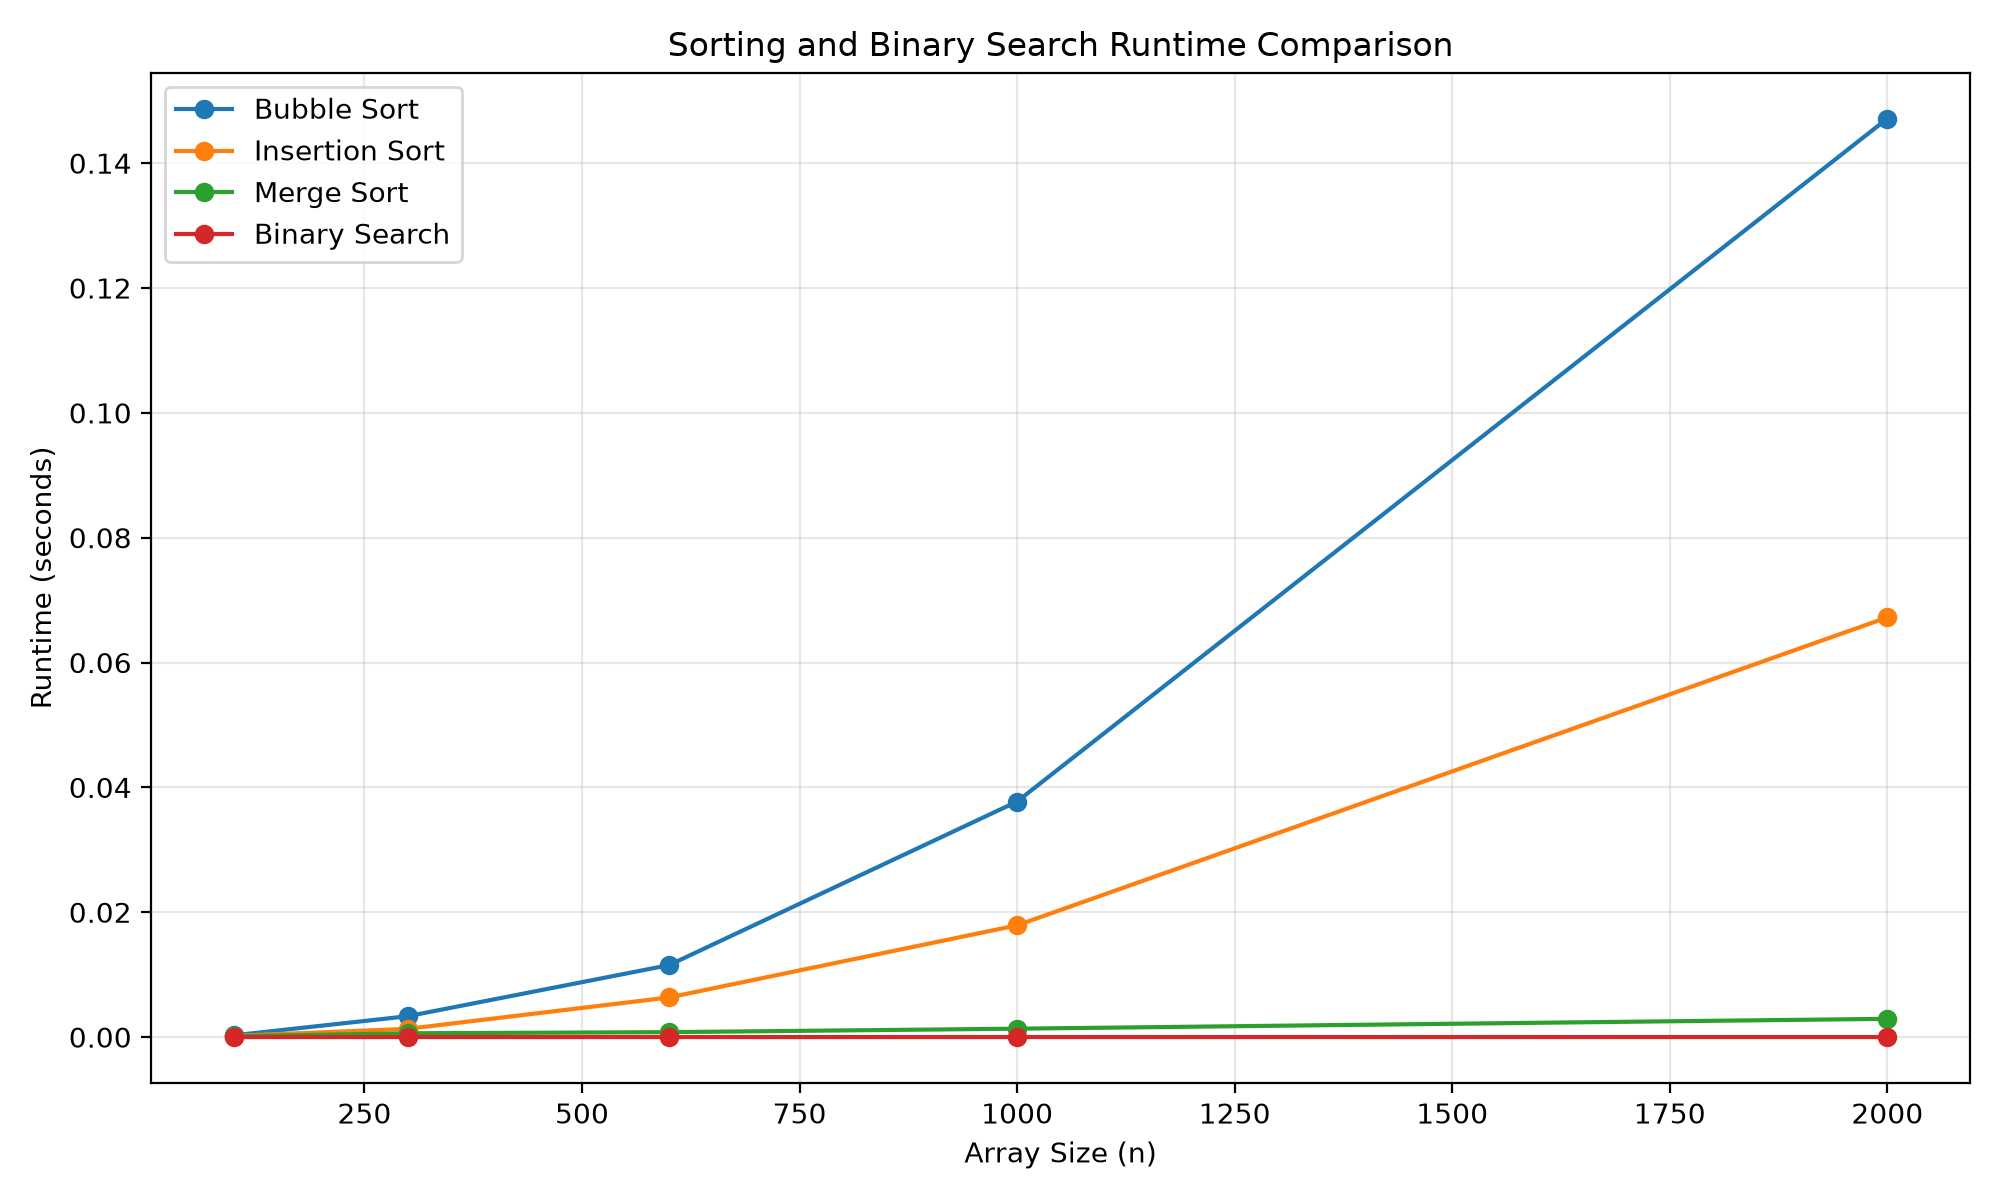
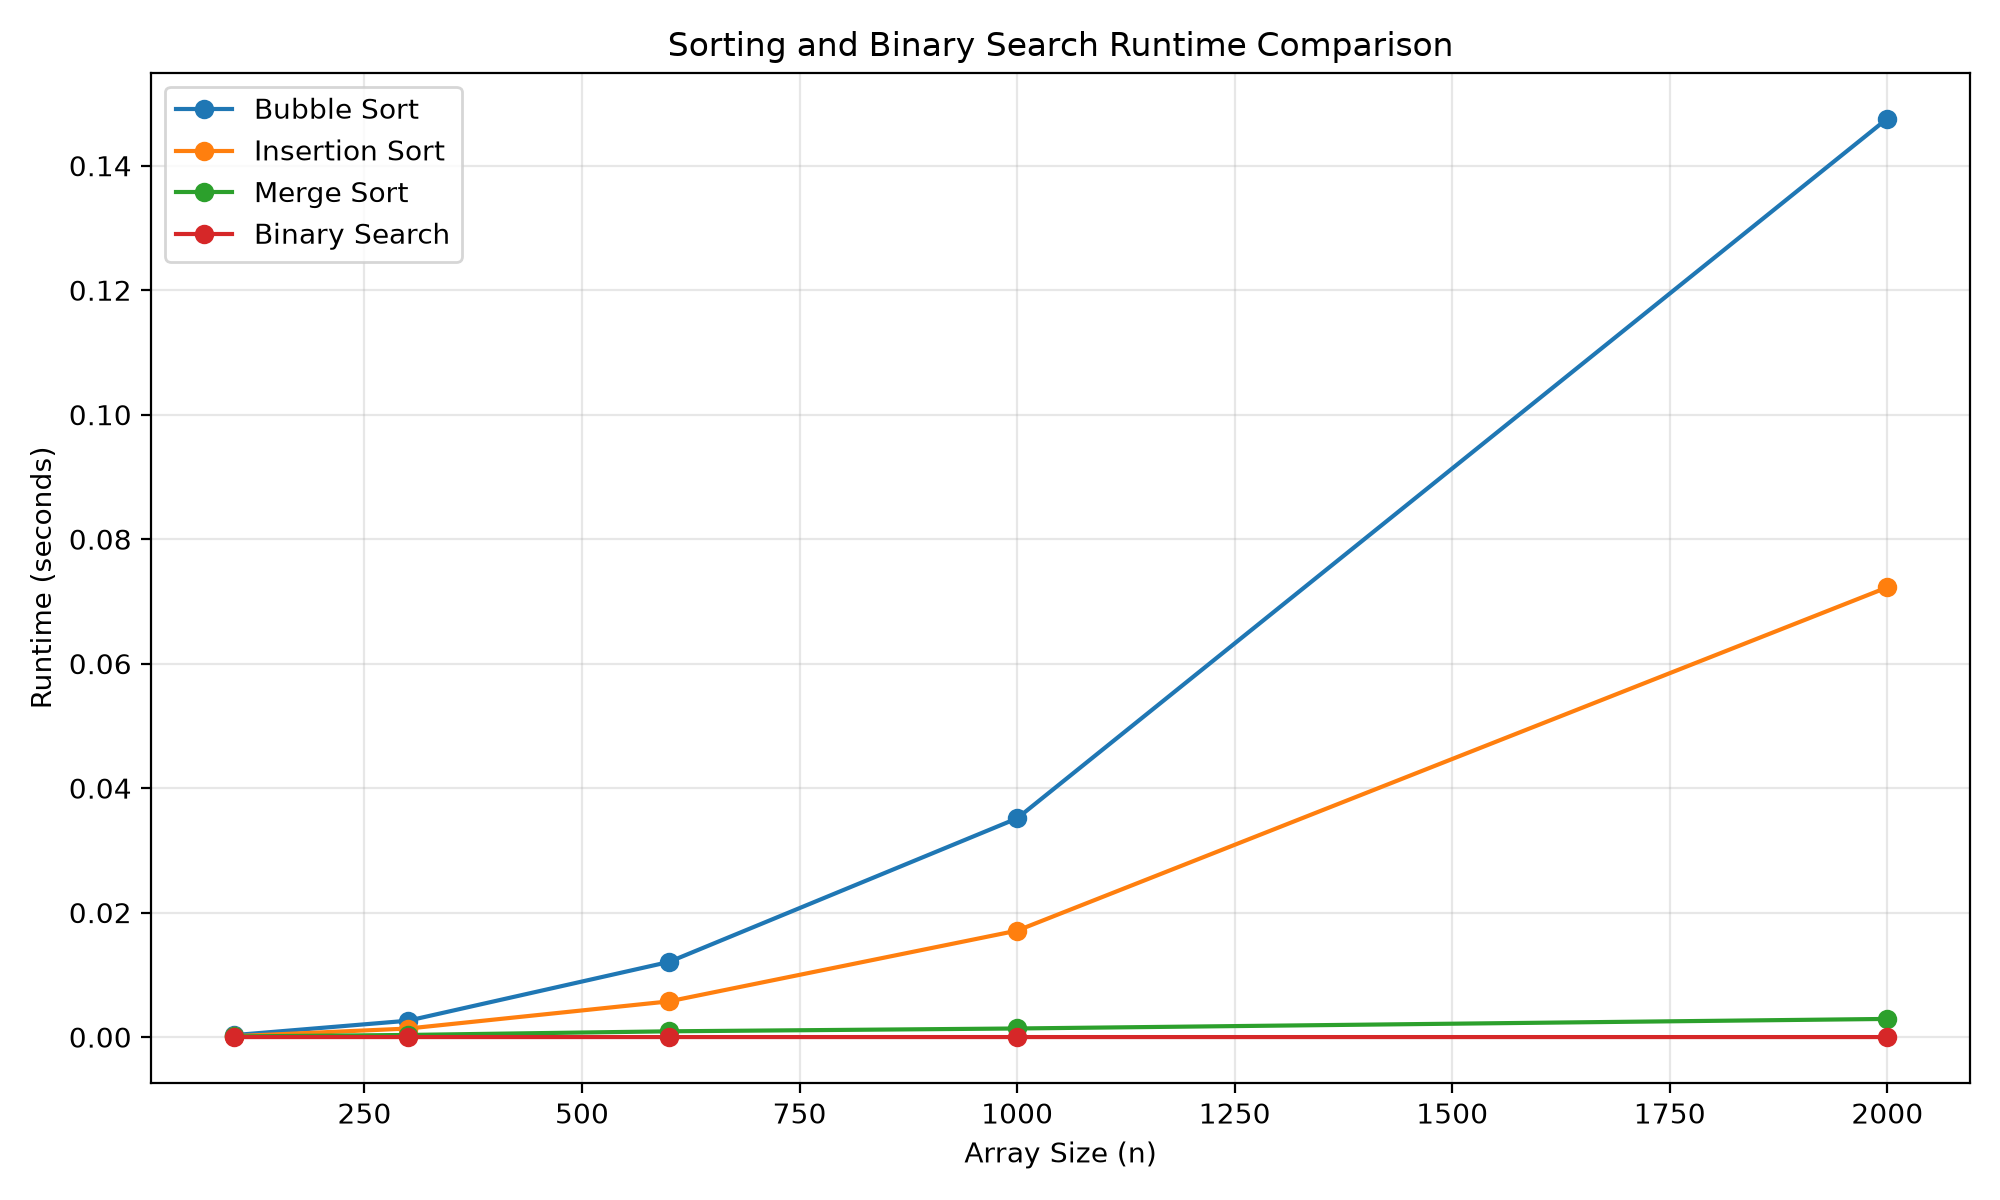
Improve sorting benchmark and export CSV results

diff --git a/SortingExperiment/sorting_experiment.py b/SortingExperiment/sorting_experiment.py
@@ -1,6 +1,7 @@
 
 import random
 import time
+import csv
 import matplotlib.pyplot as plt
 
 
@@ -96,41 +97,68 @@ if __name__ == "__main__":
 
     # 6. 准备运行时间实验
     sizes = [100, 300, 600, 1000, 2000]
+    repeat_times = 5
     algorithms = {
         "Bubble Sort": bubble_sort,
         "Insertion Sort": insertion_sort,
         "Merge Sort": merge_sort,
     }
 
+   
     results = {name: [] for name in algorithms}
+    results["Binary Search"] = []
 
     for size in sizes:
         data = [random.randint(0, 100000) for _ in range(size)]
+        expected = sorted(data)
 
+    # 重复测试每一种排序算法，计算平均时间
         for name, func in algorithms.items():
-            start = time.perf_counter()
-            output = func(data)
-            elapsed = time.perf_counter() - start
+            timings = []
 
-            assert output == sorted(data)
-            results[name].append(elapsed)
+            for _ in range(repeat_times):
+                start = time.perf_counter()
+                output = func(data)
+                elapsed = time.perf_counter() - start
 
-        # 对二分查找单独计时，避免把排序时间算进去
-        sorted_data = sorted(data)
+                timings.append(elapsed)
+                assert output == expected
+
+            average_time = sum(timings) / len(timings)
+            results[name].append(average_time)
+
+        # 二分查找：重复执行多次，计算单次平均时间
+        sorted_data = expected
         target = sorted_data[-1]
+        search_repeats = 10000
 
         start = time.perf_counter()
-        binary_search(sorted_data, target)
+
+        for _ in range(search_repeats):
+            binary_search(sorted_data, target)
+
         elapsed = time.perf_counter() - start
-
-        if "Binary Search" not in results:
-            results["Binary Search"] = []
-
-        results["Binary Search"].append(elapsed)
+        average_search_time = elapsed / search_repeats
+        results["Binary Search"].append(average_search_time)
 
         print(f"数组规模 {size}：测试完成")
 
     # 7. 绘制运行时间图
+    
+    # 将实验结果保存到 CSV 文件
+    with open("sorting_runtime.csv", "w", newline="", encoding="utf-8-sig") as f:
+        writer = csv.writer(f)
+
+        # 写入表头
+        writer.writerow(["Array Size"] + list(results.keys()))
+
+        # 每一行对应一种数组规模的实验结果
+        for i, size in enumerate(sizes):
+            row = [size] + [results[name][i] for name in results]
+            writer.writerow(row)
+
+    print("实验数据已保存：sorting_runtime.csv")
+
     plt.figure(figsize=(10, 6))
 
     for name, times in results.items():
